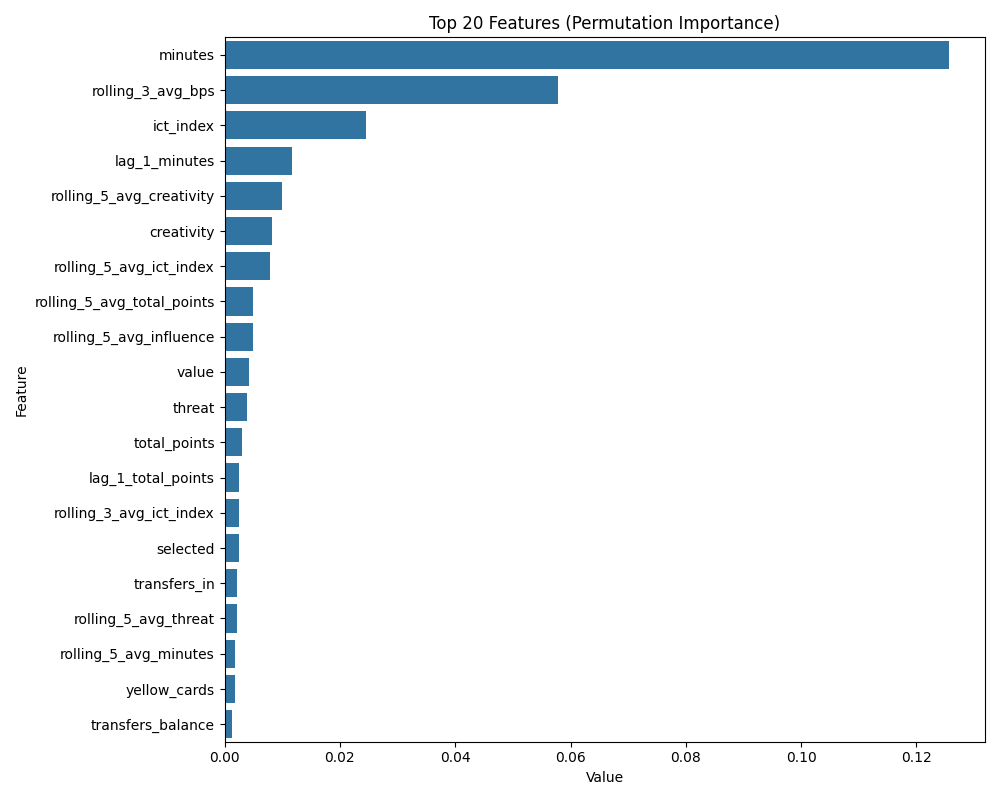
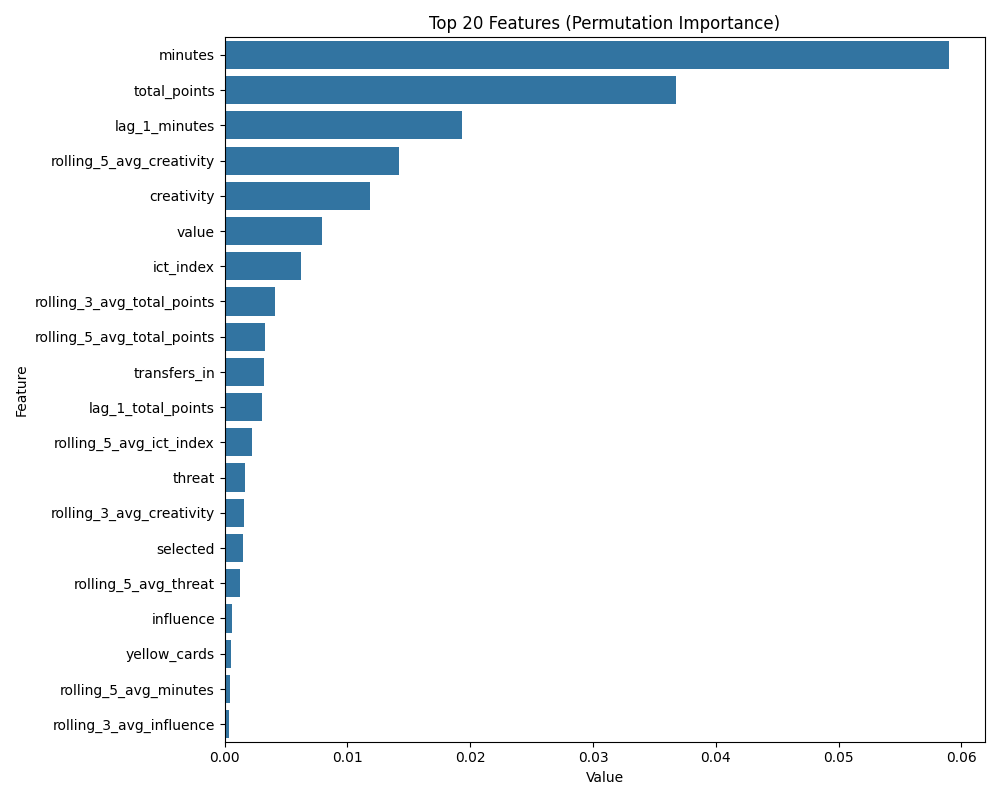
stats that drove the ml decision

diff --git a/app/main.py b/app/main.py
@@ -4,6 +4,8 @@ import pandas as pd
 import numpy as np
 import sys
 import os
+import altair as alt
+import pickle
 
 # Add the parent directory to sys.path so we can import from src
 sys.path.append(os.path.abspath(os.path.join(os.path.dirname(__file__), '..')))
@@ -39,6 +41,18 @@ def load_prediction_data():
 
 df = load_prediction_data()
 
+# Load ML Model for Explainability
[email redacted]_resource
+def load_ml_model():
+    model_path = os.path.join(os.path.dirname(__file__), '../models/histgb_model.pkl')
+    if os.path.exists(model_path):
+        with open(model_path, 'rb') as f:
+            data = pickle.load(f)
+        return data['model'], data['features']
+    return None, None
+
+model, features = load_ml_model()
+
 # Initialize Assistant
 @st.cache_resource
 def get_assistant():
@@ -67,7 +81,7 @@ selected_gw = st.sidebar.selectbox("Gameweek", player_gws)
 
 st.sidebar.markdown("---")
 st.sidebar.markdown("**POWERED BY:**")
-st.sidebar.markdown("<div style='font-family:monospace;font-size:0.8rem;color:#00ff85'>> ML: HistGradientBoosting<br>> AI: OpenRouter API</div>", unsafe_allow_html=True)
+st.sidebar.markdown("<div style='font-family:monospace;font-size:0.8rem;color:#00ff85'>> ML: LightGBM Regressor<br>> AI: OpenRouter API</div>", unsafe_allow_html=True)
 
 # Main Content Area
 player_data = df[(df['name'] == selected_player) & (df['GW'] == selected_gw)]
@@ -92,17 +106,9 @@ else:
     mins_percent = min(100, int((avg_mins / 90) * 100))
     risk_badge = "<span class='player-badge badge-team' style='background:rgba(239, 68, 68, 0.2);color:#ef4444;border:1px solid rgba(239, 68, 68, 0.5);'>⚠️ Rotation Risk</span>" if avg_mins < 60 else ""
     
-    # Scout Card Container
-    st.markdown(f"""
-    <div class='scout-card'>
-        <div style='margin-bottom:24px;'>
-            <span class='player-badge badge-team'>{row.get('team_x', 'UNK')}</span>
-            <span class='player-badge badge-pos'>{row.get('position', 'UNK')}</span>
-            {risk_badge}
-            <h2 style='margin-top:10px; margin-bottom:2px; font-size:2.2rem;'>{selected_player}</h2>
-            <div style='color:#00ff85; font-size:0.95rem; font-family:"Outfit", sans-serif; letter-spacing:1px; text-transform:uppercase;'>Gameweek {selected_gw} Profile</div>
-        </div>
-    """, unsafe_allow_html=True)
+    # Scout Card Container - Single line to prevent Markdown code block bugs
+    scout_html = f"<div class='scout-card'><div style='margin-bottom:24px;'><span class='player-badge badge-team'>{row.get('team_x', 'UNK')}</span> <span class='player-badge badge-pos'>{row.get('position', 'UNK')}</span> {risk_badge} <h2 style='margin-top:10px; margin-bottom:2px; font-size:2.2rem;'>{selected_player}</h2><div style='color:#00ff85; font-size:0.95rem; font-family:\"Outfit\", sans-serif; letter-spacing:1px; text-transform:uppercase;'>Gameweek {selected_gw} Profile</div></div></div>"
+    st.markdown(scout_html, unsafe_allow_html=True)
     
     # Metrics Grid inside Scout Card
     col1, col2, col3 = st.columns(3)
@@ -113,23 +119,67 @@ else:
         st.metric(label="Form (Avg L3)", value=f"{avg_points:.1f} {form_icon}")
     with col3:
         st.metric(label="Avg Mins (L3)", value=f"{avg_mins:.0f}'")
-        # Inject Gamified Progress bar
-        st.markdown(f"""
-            <div class='progress-bg'>
-                <div class='progress-fill' style='width: {mins_percent}%;'></div>
-            </div>
-        """, unsafe_allow_html=True)
+        # Inject Gamified Progress bar - Single line
+        st.markdown(f"<div class='progress-bg'><div class='progress-fill' style='width: {mins_percent}%;'></div></div>", unsafe_allow_html=True)
         
     st.markdown("</div>", unsafe_allow_html=True) # Close scout-card
     
-    # Form History Chart (Interesting UI Addition)
-    st.markdown("<h3 style='margin-top: 1rem; color: #e2e8f0;'>Historical Form</h3>", unsafe_allow_html=True)
-    st.markdown("<p style='color:#94a3b8; font-size:0.9rem;'>Player's points trajectory up to the selected Gameweek.</p>", unsafe_allow_html=True)
+    # Dual Column Layout for Charts
+    chart_col1, chart_col2 = st.columns(2)
     
-    historical_data = df[(df['name'] == selected_player) & (df['GW'] <= selected_gw)].sort_values('GW')
-    if not historical_data.empty:
-        chart_data = historical_data.set_index('GW')[['target_next_gw_points']].rename(columns={'target_next_gw_points': 'Points'})
-        st.bar_chart(chart_data, color="#00ff85", height=200)
+    with chart_col1:
+        # Form History Chart (Interesting UI Addition)
+        st.markdown("<h3 style='margin-top: 1rem; color: #e2e8f0;'>Historical Form</h3>", unsafe_allow_html=True)
+        st.markdown("<p style='color:#94a3b8; font-size:0.9rem;'>Player's points trajectory up to the selected Gameweek.</p>", unsafe_allow_html=True)
+        
+        historical_data = df[(df['name'] == selected_player) & (df['GW'] <= selected_gw)].sort_values('GW')
+        if not historical_data.empty:
+            chart_data = historical_data.set_index('GW')[['target_next_gw_points']].rename(columns={'target_next_gw_points': 'Points'})
+            st.bar_chart(chart_data, color="#00ff85", height=250)
+            
+    with chart_col2:
+        # Model Explainability / Local Feature Importance
+        st.markdown("<h3 style='margin-top: 1rem; color: #e2e8f0;'>Why this Prediction?</h3>", unsafe_allow_html=True)
+        st.markdown("<p style='color:#94a3b8; font-size:0.9rem;'>Top 5 stats that drove the ML model's decision.</p>", unsafe_allow_html=True)
+        
+        if model is not None and features is not None:
+            # Extract player features
+            X_player = df[(df['name'] == selected_player) & (df['GW'] == selected_gw)][features]
+            
+            # Use LightGBM pred_contrib=True to get exact SHAP values for this prediction
+            contributions = model.predict(X_player, pred_contrib=True)[0]
+            feature_contribs = contributions[:-1] # Drop the expected bias term at the end
+            
+            contrib_df = pd.DataFrame({
+                'Feature': features,
+                'Contribution': feature_contribs
+            })
+            
+            # Find the top 5 most impactful features (absolute magnitude)
+            contrib_df['AbsContribution'] = contrib_df['Contribution'].abs()
+            top_contribs = contrib_df.sort_values('AbsContribution', ascending=False).head(5)
+            
+            # Make the Feature names slightly more readable
+            top_contribs['Feature'] = top_contribs['Feature'].str.replace('_', ' ').str.title()
+            
+            # Plot using Altair
+            chart = alt.Chart(top_contribs).mark_bar(cornerRadiusEnd=4).encode(
+                x=alt.X('Contribution:Q', title='Impact on Points (Pts)', axis=alt.Axis(grid=False)),
+                y=alt.Y('Feature:N', sort=alt.EncodingSortField(field="AbsContribution", op="sum", order='descending'), title=''),
+                color=alt.condition(
+                    alt.datum.Contribution > 0,
+                    alt.value('#00ff85'),  # Positive impact (Green)
+                    alt.value('#ef4444')   # Negative impact (Red)
+                ),
+                tooltip=['Feature', 'Contribution']
+            ).properties(height=250)
+            
+            # Add a vertical rule at 0 to prevent silent Vega-Lite crash
+            rule = alt.Chart(pd.DataFrame({'x': [0]})).mark_rule(color='rgba(255,255,255,0.2)').encode(x='x:Q')
+            
+            st.altair_chart(chart + rule, use_container_width=True)
+        else:
+            st.info("Model not found. Please train the model to enable explainability.")
 
     st.markdown("---")
     
@@ -144,11 +194,6 @@ else:
             import markdown
             advice_html = markdown.markdown(advice)
             
-            # Inject the fully formatted HTML into the custom styling box
-            st.markdown(f"""
-            <div class='ai-verdict-container'>
-                <div class='ai-verdict-box'>
-                    {advice_html}
-                </div>
-            </div>
-            """, unsafe_allow_html=True)
+            # Inject the fully formatted HTML into the custom styling box - Single line
+            verdict_html = f"<div class='ai-verdict-container'><div class='ai-verdict-box'>{advice_html}</div></div>"
+            st.markdown(verdict_html, unsafe_allow_html=True)

diff --git a/src/models/train_model.py b/src/models/train_model.py
@@ -42,23 +42,19 @@ def prepare_features(train_df, val_df, test_df):
     return X_train, y_train, X_val, y_val, X_test, y_test, numeric_features
 
 def train_model(X_train, y_train, X_val, y_val):
-    """Train a HistGradientBoosting Regressor model."""
-    print("Training HistGradientBoostingRegressor model...")
+    """Train a LightGBM Regressor model."""
+    from lightgbm import LGBMRegressor
+    print("Training LGBMRegressor model...")
     
-    model = HistGradientBoostingRegressor(
-        loss='absolute_error',
+    model = LGBMRegressor(
+        objective='mae',
         learning_rate=0.05,
         max_depth=6,
-        max_iter=500,
-        early_stopping=True,
-        validation_fraction=None, # we pass our own
+        n_estimators=150,
         random_state=42
     )
     
-    # In sklearn, we can just concat train and val and use a PredefinedSplit, or for simplicity:
-    # We will just train with early stopping on a random internal split for simplicity since HistGBM doesn't easily take explicit eval sets yet without a pipeline trick.
-    # We'll rely on the default early stopping which uses 10% of the training data.
-    model.fit(X_train, y_train)
+    model.fit(X_train, y_train, eval_set=[(X_val, y_val)])
     
     return model
 